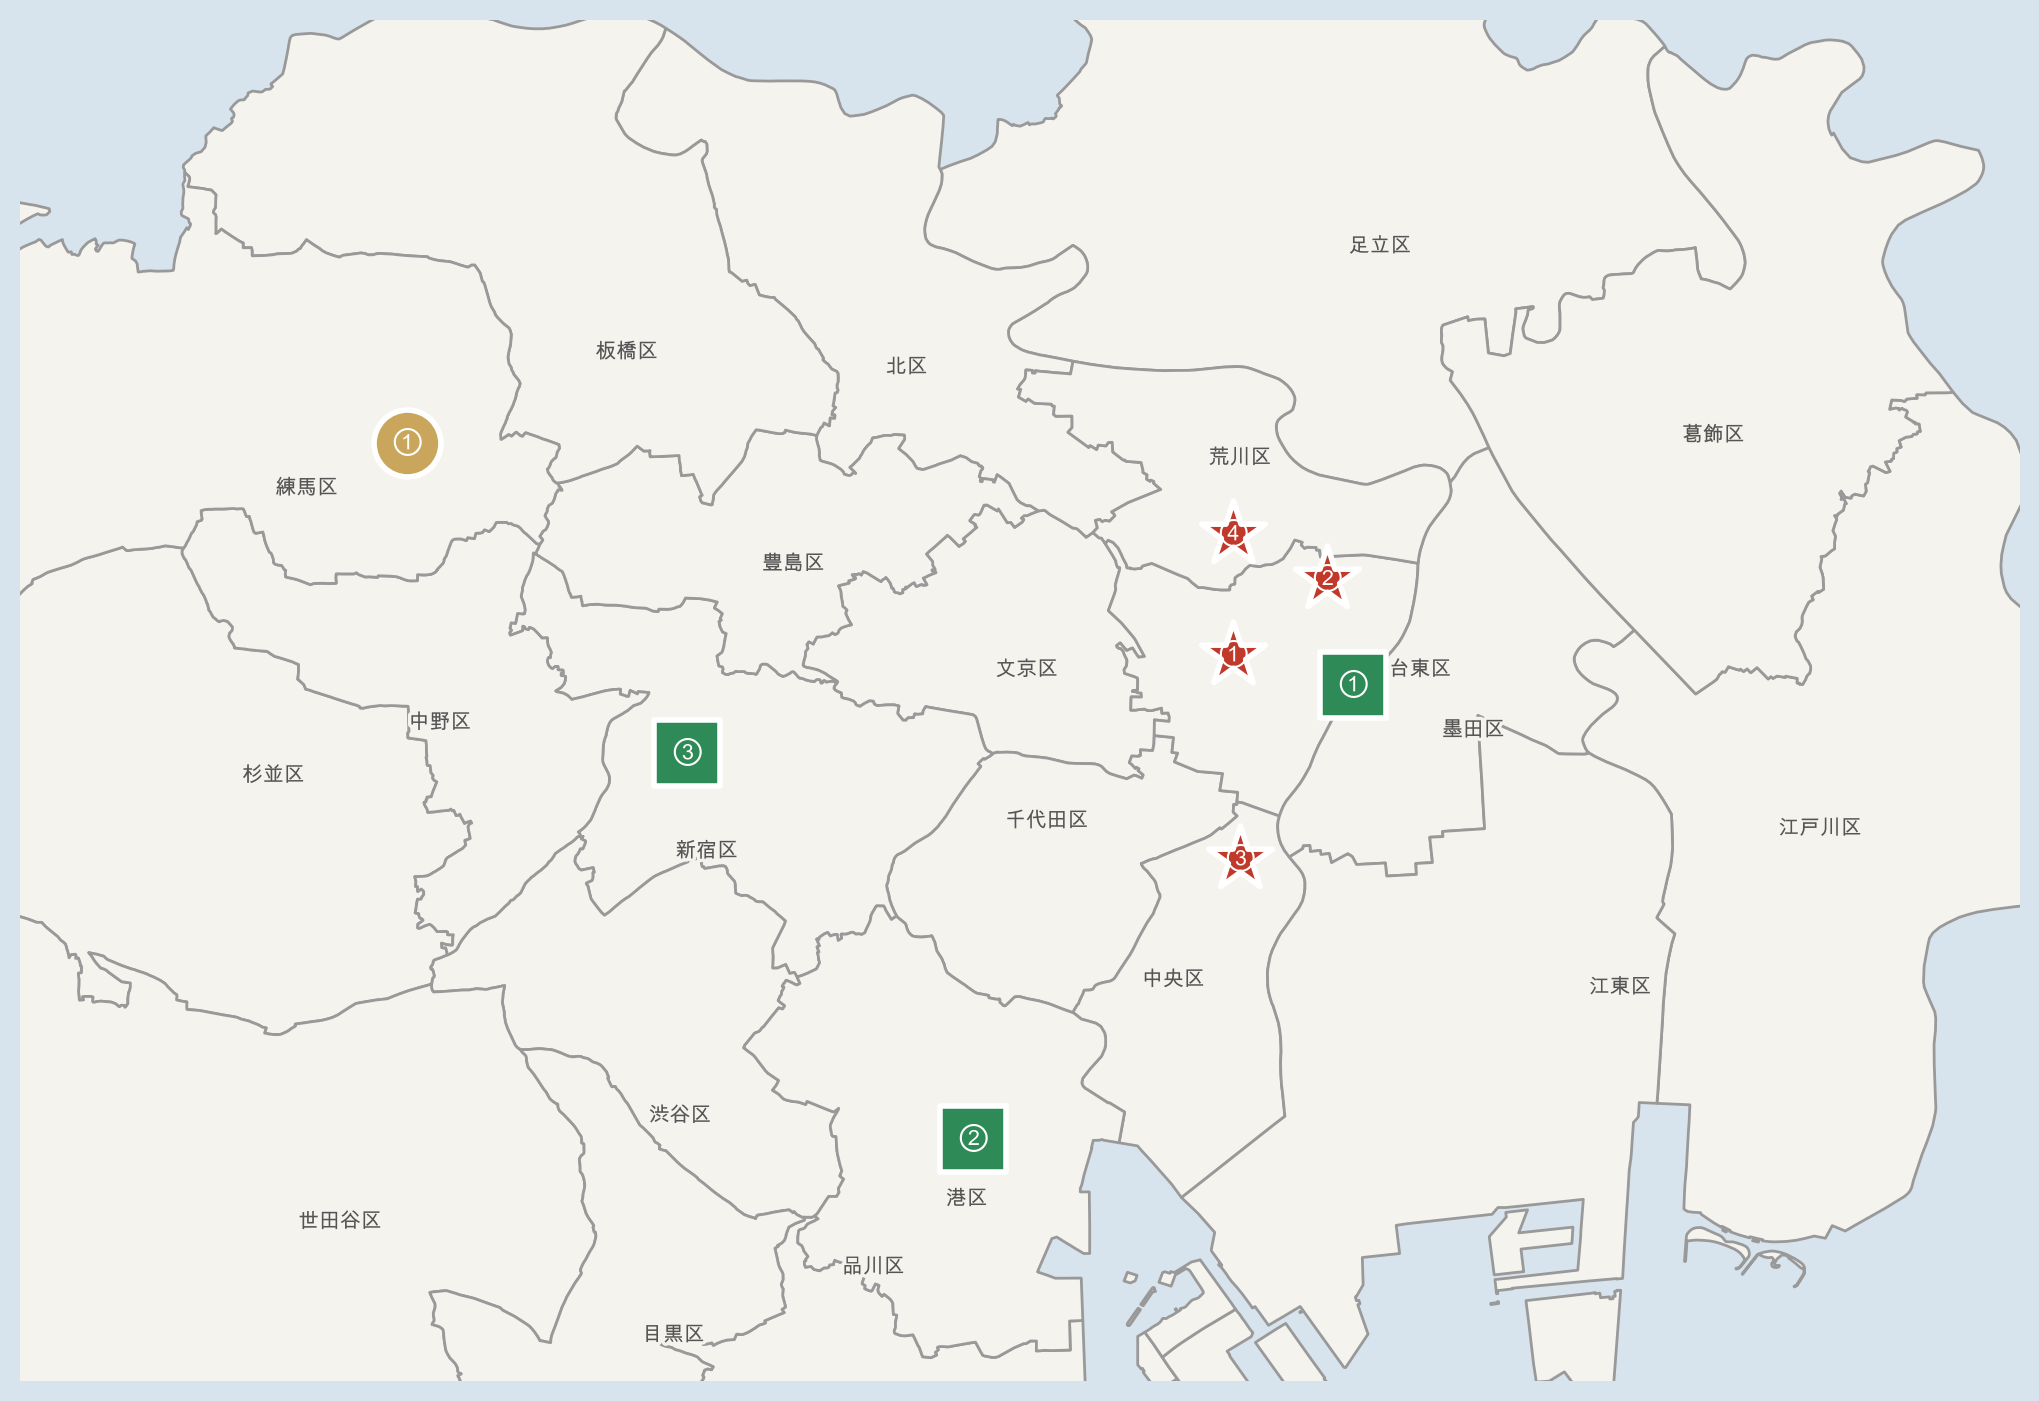
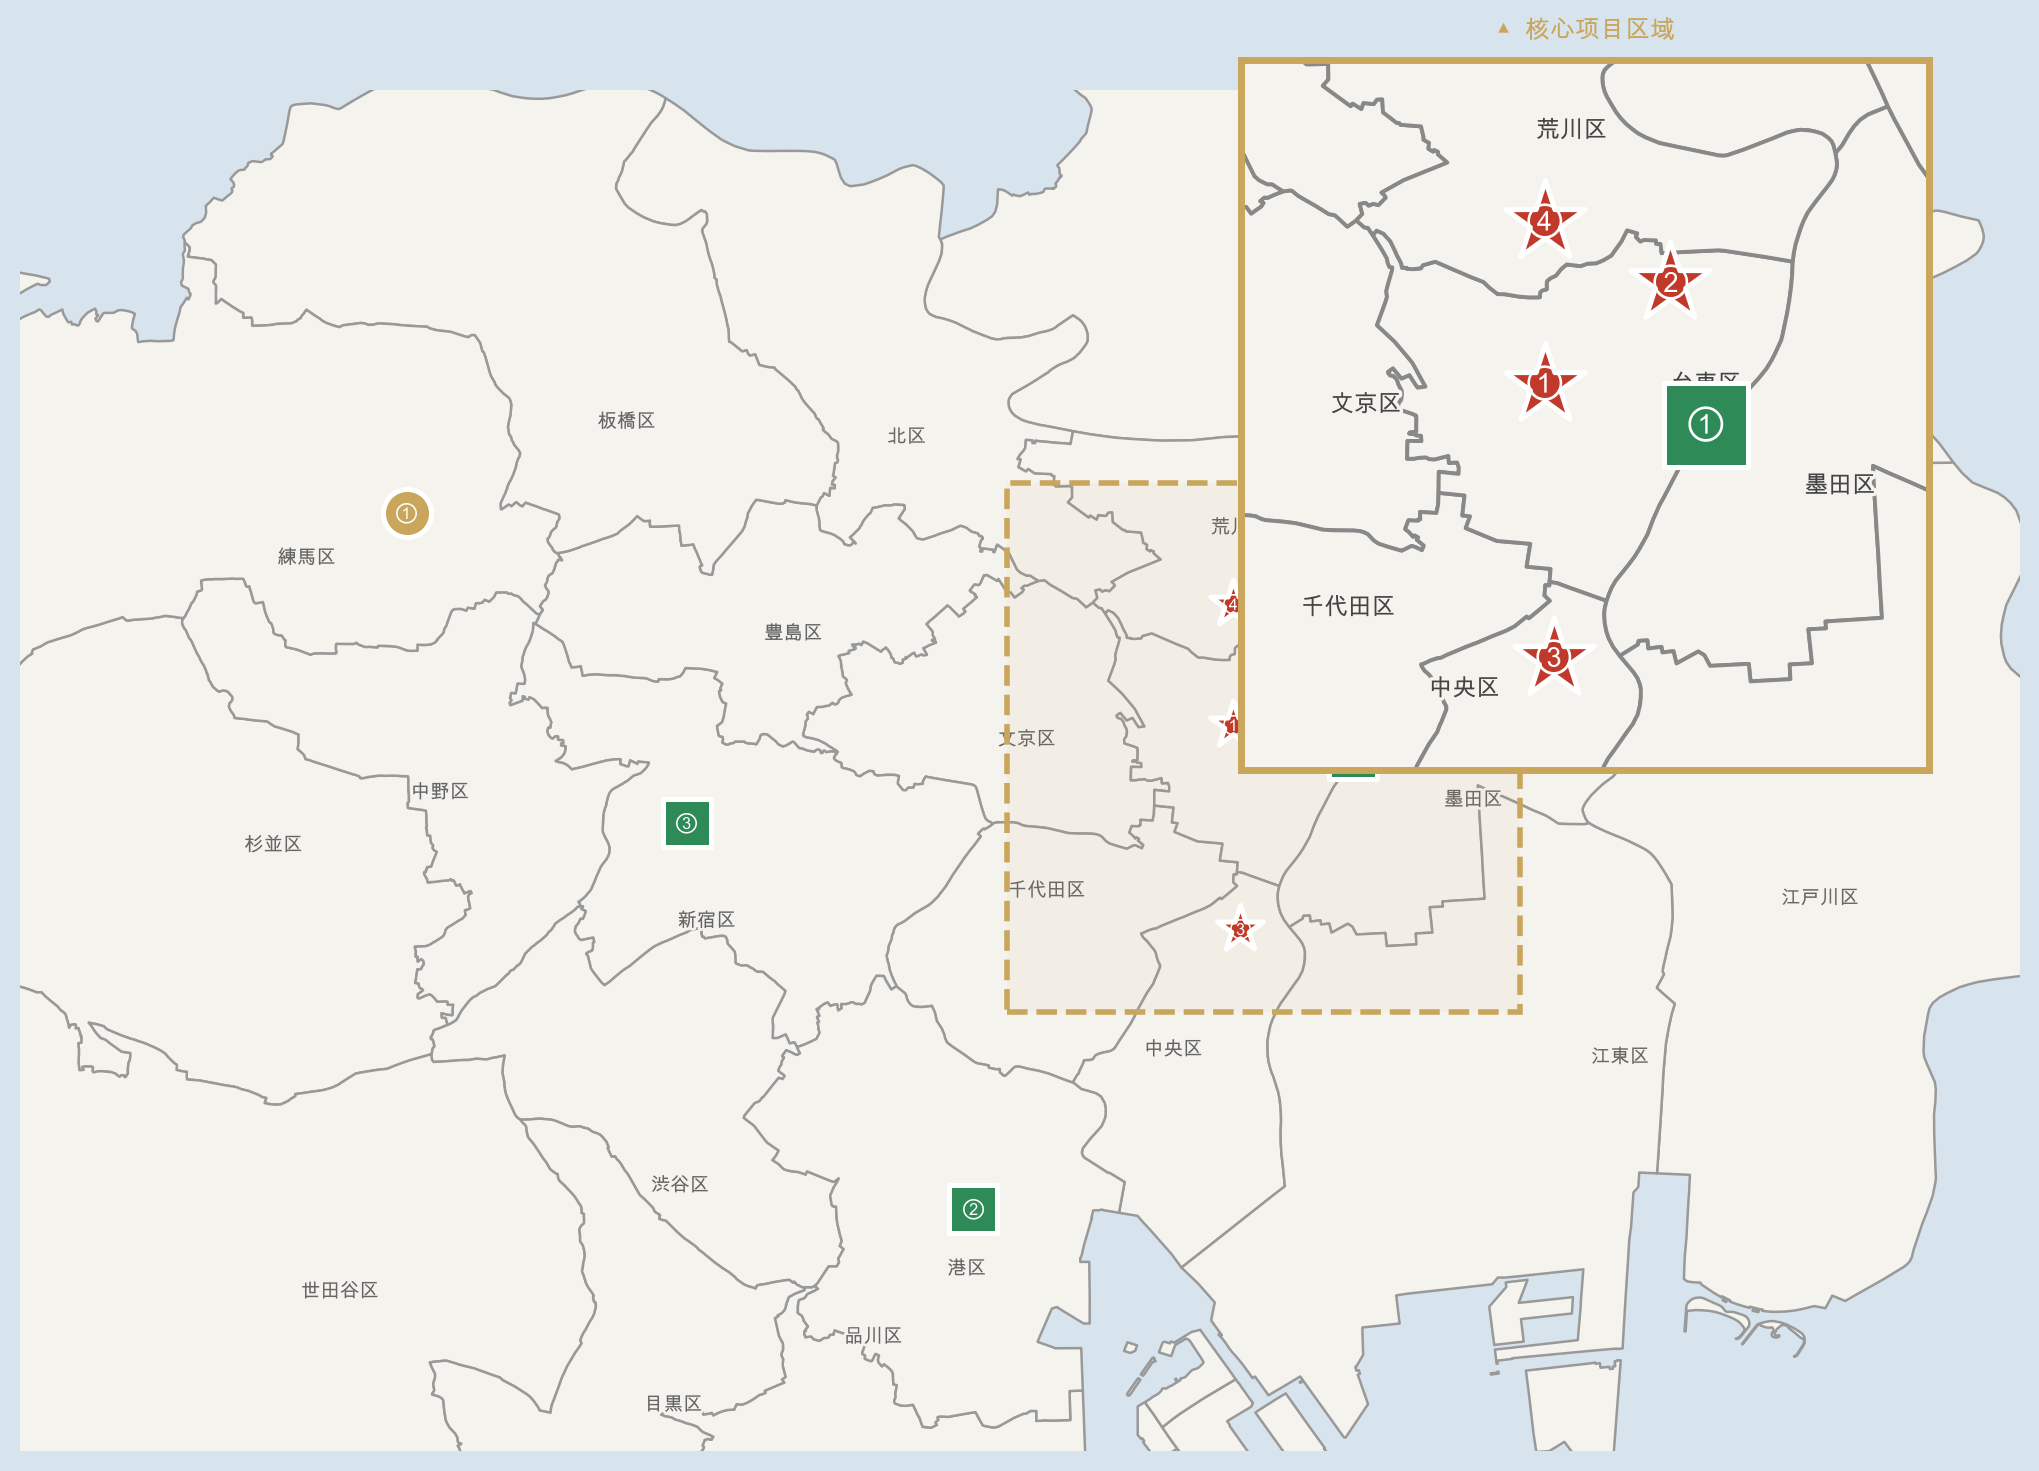
Add magnifier inset to project map; move legend to right side
- Map: gold-border inset in top-right showing core project cluster zoomed in
- HTML: .map-legend moved from left:12px to right:12px to avoid covering green markers

diff --git a/index.html b/index.html
@@ -481,7 +481,7 @@
     .map-wrap{position:relative;display:inline-block;width:100%;border-radius:22px;overflow:hidden;background:var(--gold);-webkit-transform:translateZ(0);transform:translateZ(0)}
     .map-wrap>img{border-radius:0!important;background:var(--gold)!important;display:block;width:100%}
     .map-wrap::before{content:"";position:absolute;top:0;left:0;width:34px;height:30px;background:var(--gold);clip-path:polygon(0 0,100% 0,0 100%);z-index:2;pointer-events:none}
-    .map-legend{position:absolute;left:12px;bottom:12px;background:rgba(255,255,255,.94);border:1px solid rgba(0,0,0,.08);border-radius:12px;padding:10px 14px;font-size:12px;line-height:1.8;backdrop-filter:blur(6px);box-shadow:0 4px 16px rgba(0,0,0,.10);z-index:3}
+    .map-legend{position:absolute;right:12px;bottom:12px;background:rgba(255,255,255,.94);border:1px solid rgba(0,0,0,.08);border-radius:12px;padding:10px 14px;font-size:12px;line-height:1.8;backdrop-filter:blur(6px);box-shadow:0 4px 16px rgba(0,0,0,.10);z-index:3}
     .ml-row{display:flex;align-items:center;gap:8px}
     .ml-icon{flex:0 0 16px;width:16px;height:16px;display:inline-block}
     .ml-icon.yellow{border-radius:50%;background:#f59e0b}
